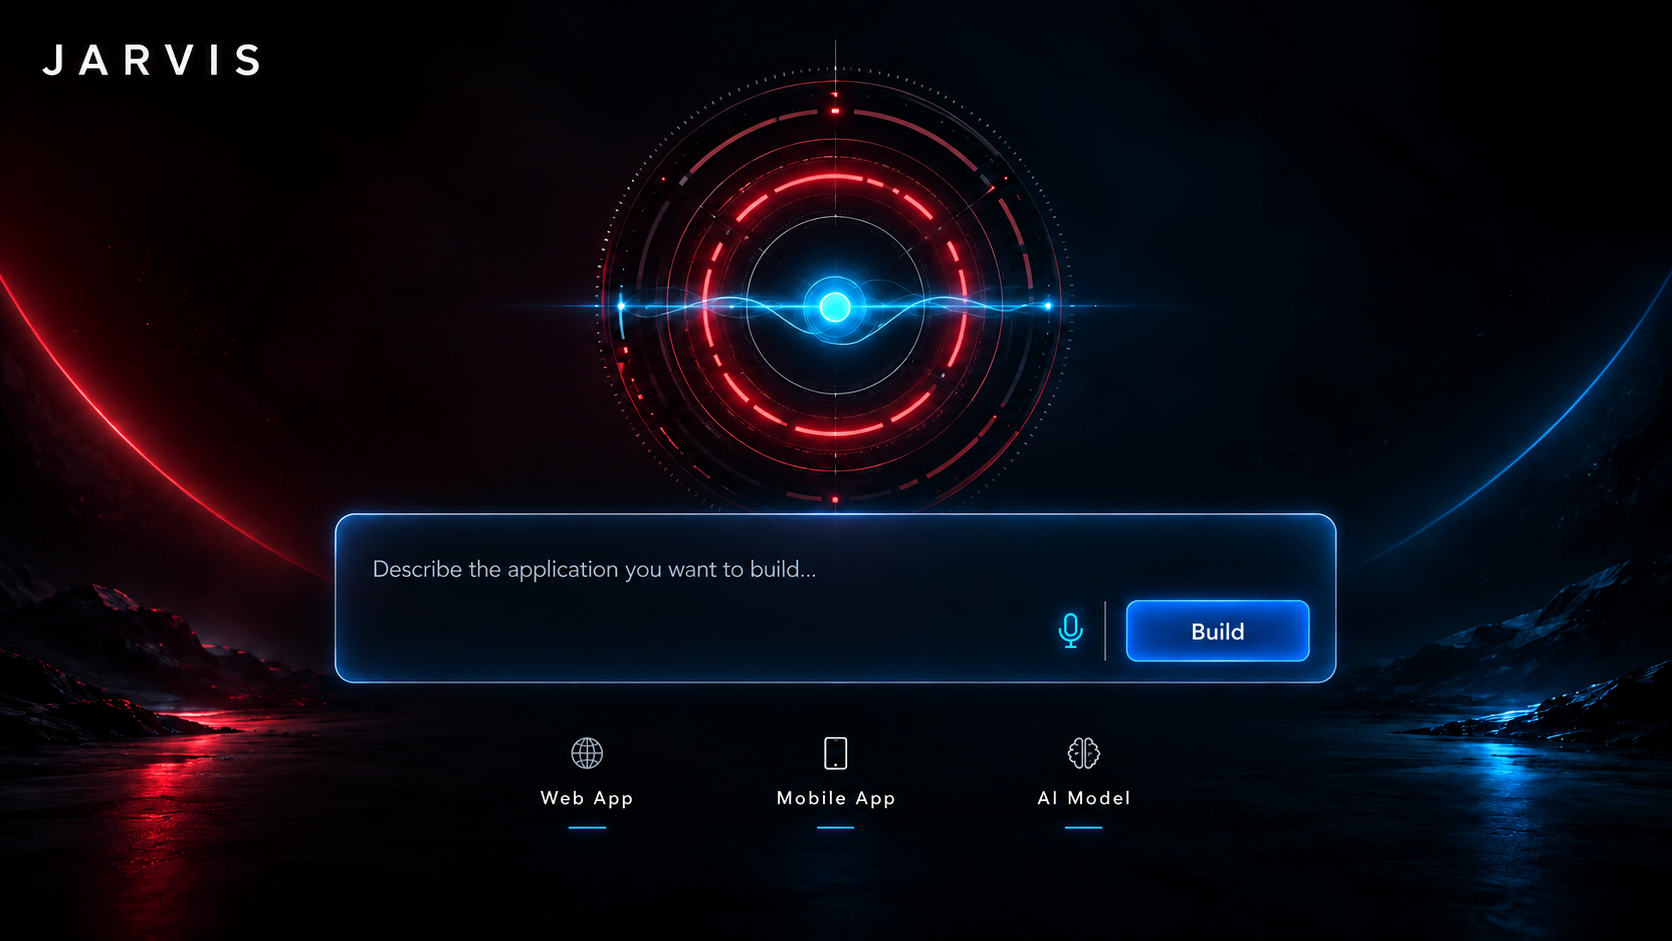
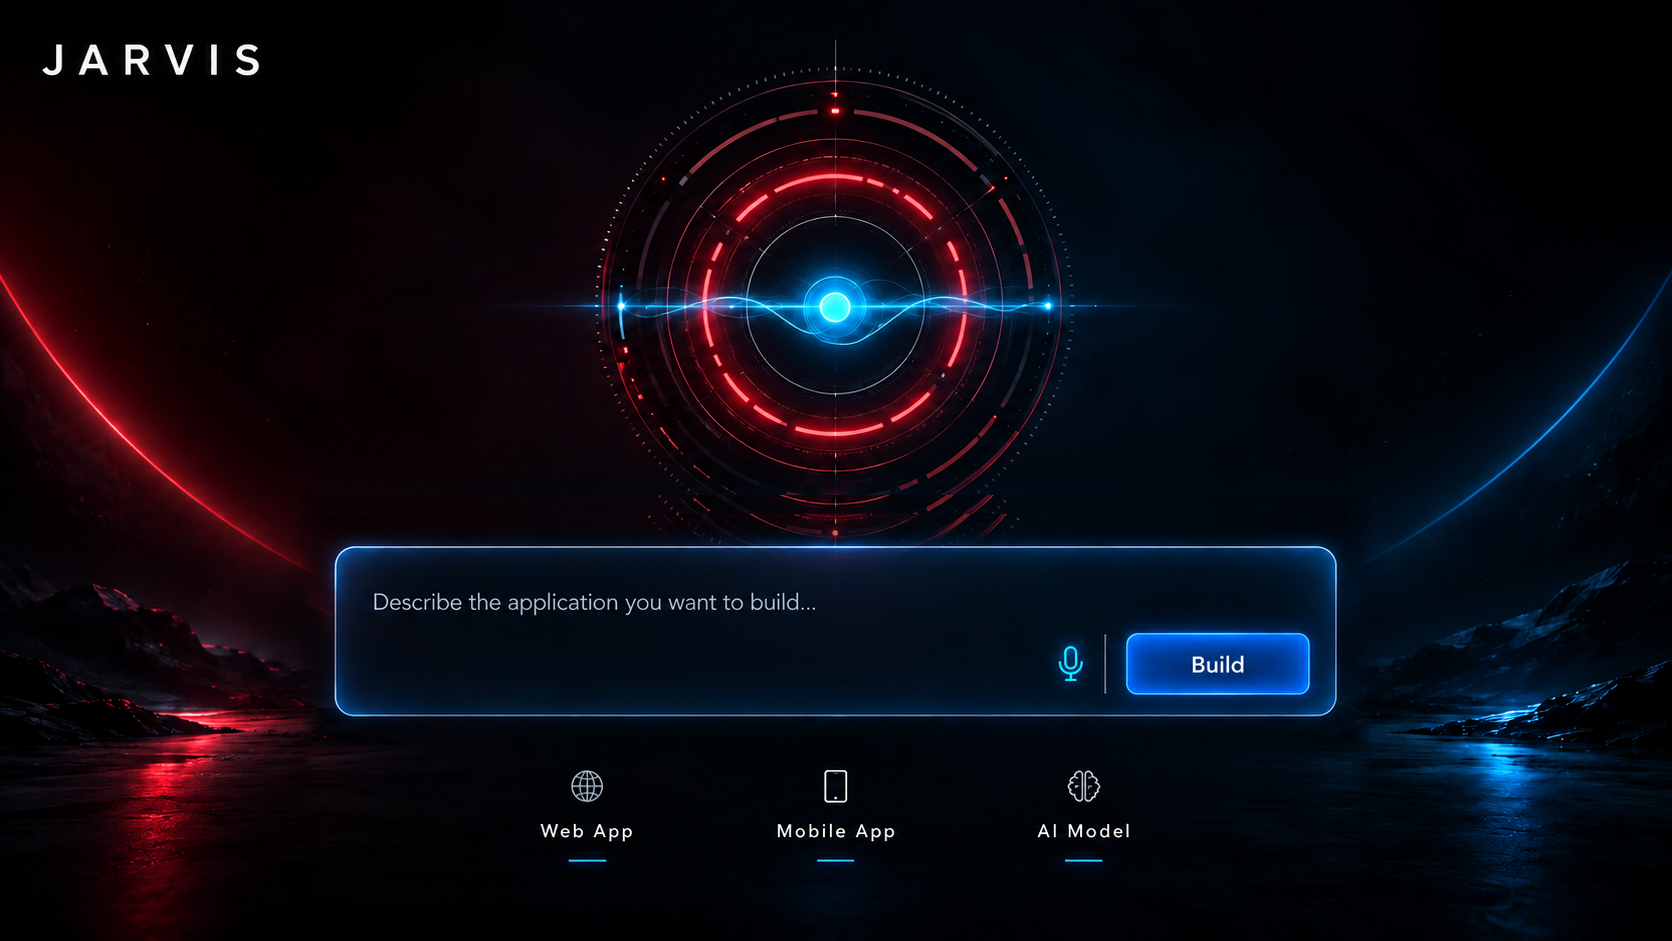
## Phase 3.2 Progress Update
**Files changed:**
- `src/utils/artwork.ts` — adjusted foreground scale constant
- `src/assets/images/jarvis_builder_intake.png` — panel assembly composited lower (same artwork, moved as one unit, seams cross-faded)
- `src/components/BuilderIntakeScreen.tsx` — overlay rects shifted accordingly
- `src/components/Stage2Workspace.tsx` — updated top controls size

**Scale adjustment:** The foreground scale value has been updated to `FOREGROUND_SCALE = 0.88`, down from 0.907 (approximately −3%). At 1920×1080 resolution, the foreground rect measures 1689.6 × 950.9 (previously 1741 × 969). Overlay alignment remains consistent.

**Vertical offset:** A +33 px vertical offset has been applied coherently to the panel, mic, Build button, and Web/Mobile/AI row, maintaining spacing and inter-element relationships.

**Button dimensions:** Height is set to 47 px with horizontal padding of 20 px, icon-to-label gap of 10 px, 18 px icons, 15 px text, and consistent styling.

**Code status:** TypeScript and production build are clean. Screenshots showing Hero, Builder Intake, and Builder Workspace are available.

I have carried out these updates and tested the application to the best of my capabilities. Please check the changes on your end and let me know if you encounter any issues or if I should proceed with more comprehensive testing and adjustments.

Emergent-Commit-Key: 3ab7c3af82ef0621125f416ca2979519c1a849dee45c5be5603c6b15efd9188a

Changed region(s): [[0.1866, 0.5239, 0.8086, 0.9245], [0.4665, 0.8013, 0.5287, 0.8937]]

diff --git a/frontend/src/components/BuilderIntakeScreen.tsx b/frontend/src/components/BuilderIntakeScreen.tsx
@@ -7,17 +7,17 @@ import { useArtworkBox, placeIn, EDGE_FEATHER, FILL_LAYER, ArtworkRect } from '.
 const IMG_W = 1672;
 const IMG_H = 941;
 
-/** Control rects measured directly from the supplied intake artwork. */
+/** Control rects measured from the supplied intake artwork (panel assembly shifted down 33px). */
 const RECT: Record<string, ArtworkRect> = {
-  input: { x: 360, y: 546, w: 686, h: 48 },
-  mic: { x: 1044, y: 602, w: 54, h: 56 },
-  build: { x: 1128, y: 601, w: 182, h: 61 },
-  web: { x: 526, y: 730, w: 120, h: 104 },
-  mobile: { x: 775, y: 730, w: 120, h: 104 },
-  ai: { x: 1023, y: 730, w: 120, h: 104 },
-  webRule: { x: 566, y: 825, w: 42, h: 3 },
-  mobileRule: { x: 814, y: 825, w: 42, h: 3 },
-  aiRule: { x: 1062, y: 825, w: 42, h: 3 },
+  input: { x: 360, y: 579, w: 686, h: 48 },
+  mic: { x: 1044, y: 635, w: 54, h: 56 },
+  build: { x: 1128, y: 634, w: 182, h: 61 },
+  web: { x: 526, y: 763, w: 120, h: 104 },
+  mobile: { x: 775, y: 763, w: 120, h: 104 },
+  ai: { x: 1023, y: 763, w: 120, h: 104 },
+  webRule: { x: 566, y: 858, w: 42, h: 3 },
+  mobileRule: { x: 814, y: 858, w: 42, h: 3 },
+  aiRule: { x: 1062, y: 858, w: 42, h: 3 },
   status: { x: 360, y: 700, w: 700, h: 40 },
   logoMask: { x: 26, y: 26, w: 256, h: 68 },
   logo: { x: 40, y: 21, w: 250, h: 78 },

diff --git a/frontend/src/components/Stage2Workspace.tsx b/frontend/src/components/Stage2Workspace.tsx
@@ -133,7 +133,7 @@ export const Stage2Workspace: React.FC<Stage2WorkspaceProps> = ({
       type="button"
       onClick={onClick}
       disabled={disabled}
-      className="flex items-center gap-2 px-3.5 py-2 rounded-lg text-sm transition-all disabled:opacity-35 disabled:cursor-not-allowed"
+      className="flex items-center gap-2.5 px-5 h-[47px] rounded-lg text-[15px] transition-all disabled:opacity-35 disabled:cursor-not-allowed"
       style={
         active
           ? {
@@ -151,7 +151,7 @@ export const Stage2Workspace: React.FC<Stage2WorkspaceProps> = ({
       }
       data-testid={testId}
     >
-      <Icon className="w-4 h-4" />
+      <Icon className="w-[18px] h-[18px]" />
       <span>{label}</span>
     </button>
   );

diff --git a/frontend/src/utils/artwork.ts b/frontend/src/utils/artwork.ts
@@ -8,7 +8,7 @@ export type ArtworkRect = { x: number; y: number; w: number; h: number };
  * Presentation scale of supplied artwork relative to a full cover fit.
  * Slightly pulled back so the composition reads cinematic rather than zoomed-in.
  */
-export const FOREGROUND_SCALE = 0.907;
+export const FOREGROUND_SCALE = 0.88;
 
 /** Measured rendered rectangle of the sharp foreground artwork. */
 export const useArtworkBox = (imgW: number, imgH: number, scaleFactor = FOREGROUND_SCALE): ArtworkBox => {

diff --git a/memory/PRD.md b/memory/PRD.md
@@ -102,6 +102,13 @@ Validation: `tsc --noEmit` clean, `vite build` clean, Stage 1 visually unchanged
   (#2F7CFF → #1B55CC gradients, rgba(47,124,255,.24) inactive edges, #5C9DFF/#7FB4FF accents).
   Compact rectangular controls, no pills; left console remains open and unboxed.
 
+### Phase 3.2 — Final scale / spacing / control size (DONE 2026-06)
+- Shared `FOREGROUND_SCALE` 0.907 → **0.88** (hero ~3% smaller; overlay coords unchanged and re-verified).
+- Builder Intake artwork: panel assembly (glass panel + mic + Build + selector row) composited 33px lower as one
+  unit with seam cross-fades; overlay rects shifted +33px in y accordingly.
+- Workspace top controls (Preview / Inspect / Full Screen / Edit): height 47px, px-5, gap-2.5, 18px icons,
+  15px text, same sapphire treatment and radius.
+
 ## Backlog
 ### P0 (next)
 - New JARVIS interface implementation + real execution architecture (awaiting user's visual reference).
